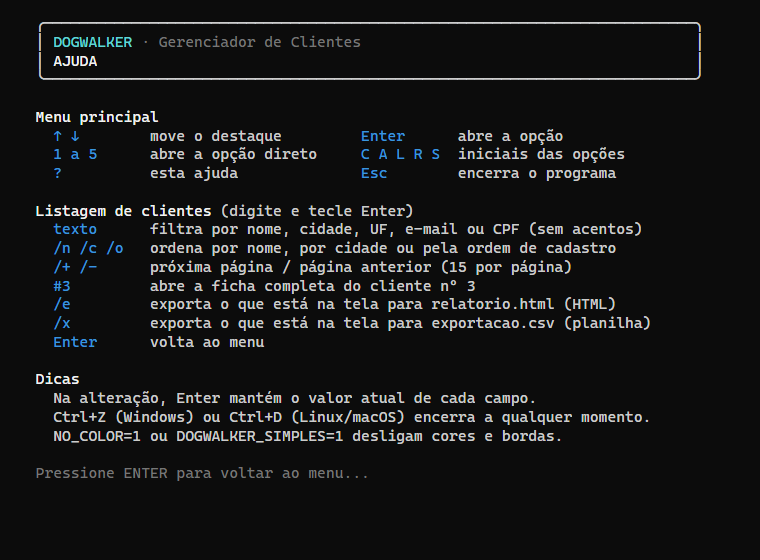
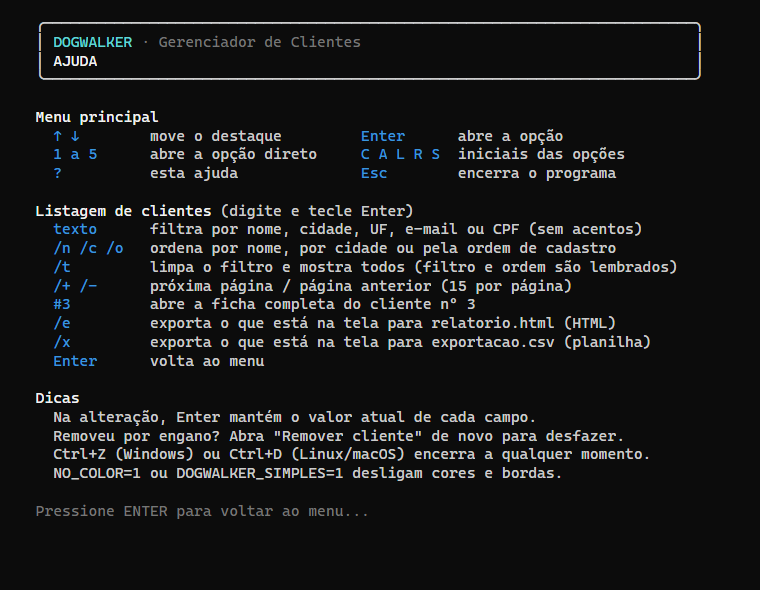
docs: desfazer remoção, /t e contagens de testes atualizadas
README, CHANGELOG e ROADMAP com as funções novas e as contagens atuais
(56 cenários no Windows, 27 em shell); capturas da listagem e da ajuda
refeitas.

diff --git a/README.md b/README.md
@@ -3,7 +3,7 @@
 ![Linguagem](https://img.shields.io/badge/linguagem-C11-blue)
 ![Plataformas](https://img.shields.io/badge/plataformas-Windows%20%7C%20Linux%20%7C%20macOS-lightgrey)
 ![Dependências](https://img.shields.io/badge/depend%C3%AAncias-nenhuma-brightgreen)
-![Testes](https://img.shields.io/badge/testes-1337%20verifica%C3%A7%C3%B5es%20%2B%2049%20cen%C3%A1rios-brightgreen)
+![Testes](https://img.shields.io/badge/testes-1337%20verifica%C3%A7%C3%B5es%20%2B%2056%20cen%C3%A1rios-brightgreen)
 ![Licença](https://img.shields.io/badge/licen%C3%A7a-MIT-green)
 
 Sistema de linha de comando para cadastrar, consultar, alterar, remover e exportar os clientes
@@ -49,7 +49,7 @@ com a análise de cada problema em [`docs/ANALISE_CODIGO_ORIGINAL.md`](docs/ANAL
 | 📋 **Listagem** | Tabela com bordas, **15 por página**, filtro por nome, cidade, UF, e-mail ou CPF (acentos opcionais) e ordenação por nome ou cidade |
 | 🪪 **Ficha** | `#3` na listagem abre a ficha completa do cliente nº 3, em um cartão |
 | ✏ **Alteração** | Busca por CPF; ENTER mantém o valor atual de cada campo |
-| 🗑 **Remoção** | Busca por CPF, mostra a ficha, avisa que é definitiva e pede confirmação |
+| 🗑 **Remoção** | Busca por CPF, mostra a ficha, avisa que é definitiva e pede confirmação; a última remoção pode ser **desfeita** enquanto o programa estiver aberto |
 | 📄 **Relatório HTML** | `/e` exporta o que está na tela (filtro + ordem): página responsiva, tema claro/escuro, pronta para imprimir, CPF mascarado |
 | 📊 **Planilha** | `/x` exporta para CSV compatível com Excel, protegido contra injeção de fórmulas |
 | ❓ **Ajuda** | `?` no menu ou na listagem mostra todos os atalhos |
@@ -160,7 +160,8 @@ Para começar com dados fictícios: `cp data/clientes_exemplo.csv data/clientes.
 | Menu | `1`–`5` ou `C` `A` `L` `R` `S` | Abre a opção direto |
 | Menu | `?` / `Esc` | Ajuda / encerra |
 | Listagem | texto + `Enter` | Filtra (nome, cidade, UF, e-mail, CPF; "sao" encontra "São") |
-| Listagem | `/n` `/c` `/o` | Ordena por nome, por cidade ou pela ordem de cadastro |
+| Listagem | `/n` `/c` `/o` | Ordena por nome, por cidade ou pela ordem de cadastro (filtro e ordem são lembrados) |
+| Listagem | `/t` | Limpa o filtro e mostra todos |
 | Listagem | `/+` `/-` | Próxima página / página anterior |
 | Listagem | `#3` | Ficha completa do cliente nº 3 |
 | Listagem | `/e` / `/x` | Exporta o que está na tela para HTML / planilha |
@@ -193,8 +194,8 @@ DogWalker/
 │   └── login.c              # autenticação com 3 tentativas
 ├── tests/
 │   ├── test_dogwalker.c     # 1337 verificações unitárias (make test)
-│   ├── cenarios.ps1         # 49 cenários ponta a ponta no Windows (make cenarios)
-│   ├── cenarios.sh          # 24 cenários ponta a ponta em shell POSIX (Linux, macOS, Git Bash)
+│   ├── cenarios.ps1         # 56 cenários ponta a ponta no Windows (make cenarios)
+│   ├── cenarios.sh          # 27 cenários ponta a ponta em shell POSIX (Linux, macOS, Git Bash)
 │   └── benchmark.c          # medição de desempenho (make bench)
 ├── data/clientes_exemplo.csv # dados FICTÍCIOS
 ├── docs/
@@ -217,7 +218,7 @@ DogWalker/
 | Comando | O que valida | Resultado atual |
 |---------|--------------|-----------------|
 | `make test` | Regras de negócio, persistência, filtro, ordenação, exportação (escape HTML, fórmulas, máscara), UTF-8 | **1337 verificações, 0 falhas** |
-| `make cenarios` | Usos completos com o programa real: login, cadastro com erros, filtro, ordenação, paginação, ficha, ajuda, exportações (conferindo o conteúdo dos arquivos), alteração e remoção (conferindo que só o cliente escolhido mudou), arquivo vazio/corrompido, pasta inexistente | **Windows:** 49 cenários (PowerShell), 0 falhas · **Linux/macOS:** 24 cenários (`sh`), 0 falhas no Git Bash |
+| `make cenarios` | Usos completos com o programa real: login, cadastro com erros, filtro, ordenação, paginação, ficha, ajuda, exportações (conferindo o conteúdo dos arquivos), alteração e remoção (conferindo que só o cliente escolhido mudou), arquivo vazio/corrompido, pasta inexistente | **Windows:** 56 cenários (PowerShell), 0 falhas · **Linux/macOS:** 27 cenários (`sh`), 0 falhas no Git Bash |
 | `make bench` | Tempo de gravar e carregar 1.000, 10.000 e 50.000 clientes | 50.000 carregados em ~0,04 s |
 | `make check` | Tudo antes de publicar: build rigoroso com `-Werror`, testes, cppcheck e cenários | ✅ |
 

diff --git a/docs/ROADMAP.md b/docs/ROADMAP.md
@@ -14,20 +14,20 @@ Legenda: 🟢 pode ser feito · 🟡 aguardando decisão do mantenedor · 🔴 b
 | 3 | Telefone/WhatsApp do tutor | Funcionalidade | 🟡 | Muda o formato do CSV; precisa de migração dos dados existentes (coluna nova com valor vazio) |
 | 4 | Senha com *hash* e arquivo de usuários | Segurança | 🟡 | Decidir se haverá cadastro de usuários e perfis; sem dependência externa seria SHA-256 + sal implementado em C |
 | 5 | Agenda de passeios (data, horário, passeador, cão) | Funcionalidade | 🟡 | Depende do item 2 |
-| 6 | Lembrar a última ordem e o filtro da listagem durante a sessão | Melhoria | 🟢 | Hoje a listagem volta à ordem de cadastro a cada abertura |
-| 8 | Desfazer a última remoção | Melhoria | 🟢 | Ex.: manter o último cliente removido em memória até sair do programa |
+| 6 | Completar `tests/cenarios.sh` com todos os cenários da versão PowerShell | Qualidade | 🟢 | Hoje cobre os fluxos principais (27 de 56) |
 
 ## Concluídos na 2.0
 
 Paginação, ficha do cliente, relatório HTML, planilha protegida contra fórmulas (resolveu o item
 "Proteção contra fórmulas" com a opção de arquivo separado, sem mudar o que o cadastro aceita),
-ajuda, carga linear do CSV, análise estática e política de segurança. Detalhes no CHANGELOG.
+ajuda, carga linear do CSV, análise estática, política de segurança, cenários em shell POSIX,
+memória de filtro/ordem na sessão e desfazer a última remoção. Detalhes no CHANGELOG.
 
 ## Limitações conhecidas
 
 - O caminho de teclado do Linux/macOS (`termios`, sequência `ESC [ A/B`) ainda não foi executado:
   não há ambiente Linux sem a CI (item 1).
-- `tests/cenarios.sh` (24 cenários) cobre os fluxos principais, mas ainda não todos os 49 da versão
+- `tests/cenarios.sh` (27 cenários) cobre os fluxos principais, mas ainda não todos os 56 da versão
   PowerShell (ex.: ordenação por cidade em detalhe, ajuda na listagem, texto longo).
 - Busca por CPF nas telas de alteração/remoção é linear (O(n)); com a carga linear, isso é
   imperceptível até dezenas de milhares de clientes.

diff --git a/CHANGELOG.md b/CHANGELOG.md
@@ -24,6 +24,9 @@ Upgrade de desempenho, funcionalidades, qualidade e segurança. Auditoria comple
   sem JavaScript e sem recursos externos.
 - **Planilha CSV** (`/x`): compatível com Excel (BOM UTF-8, CRLF), CPF e CEP formatados como texto.
 - **Ajuda** (`?`) no menu e na listagem, com todos os atalhos.
+- **Desfazer a última remoção:** enquanto o programa está aberto, abrir "Remover cliente" de novo
+  oferece restaurar o cliente removido (se o CPF não tiver sido cadastrado outra vez).
+- **Listagem lembra filtro e ordem** durante a sessão; `/t` limpa o filtro.
 - **Ordenação da listagem:** `/n` por nome, `/c` por cidade (depois UF e nome), `/o` volta à
   ordem de cadastro. Só a exibição muda; o CSV e a coluna `#` continuam na ordem de cadastro.
 - Componente de **cartão** (`ui_painel_*`) com quebra de linha por palavra, usado na ficha do cliente.
@@ -32,8 +35,8 @@ Upgrade de desempenho, funcionalidades, qualidade e segurança. Auditoria comple
 - `SECURITY.md` com política de relato, modelo de ameaça e riscos aceitos.
 - Workflow do GitHub Actions pronto em `docs/ci/ci.yml` (Linux com sanitizers e Windows).
 - `docs/AUDITORIA.md` e `docs/AVALIACAO_TECNOLOGIAS.md`; novas capturas de tela no README.
-- Testes: 1337 verificações (antes 1244) e 49 cenários ponta a ponta (antes 28).
-- `tests/cenarios.sh`: 24 cenários ponta a ponta em shell POSIX, para Linux, macOS, Git Bash e a CI
+- Testes: 1337 verificações (antes 1244) e 56 cenários ponta a ponta (antes 28).
+- `tests/cenarios.sh`: 27 cenários ponta a ponta em shell POSIX, para Linux, macOS, Git Bash e a CI
   (`make cenarios` fora do Windows).
 
 ### Alterado

diff --git a/docs/AVALIACAO_TECNOLOGIAS.md b/docs/AVALIACAO_TECNOLOGIAS.md
@@ -9,7 +9,7 @@ tecnologia só para aumentar a lista não conta.
 
 - O DogWalker é um **gerenciador local**, usado por uma pessoa por vez num pequeno negócio de passeios.
 - É um **projeto de portfólio em C**. Demonstrar C bem feito é parte do objetivo.
-- O núcleo está **estável e testado** (1.337 verificações, 49 cenários) e não tem dependências.
+- O núcleo está **estável e testado** (1.337 verificações, 56 cenários) e não tem dependências.
 - Volume esperado: centenas a poucos milhares de clientes. Com a carga linear da 2.0,
   50 mil clientes carregam em 0,04 s.
 
